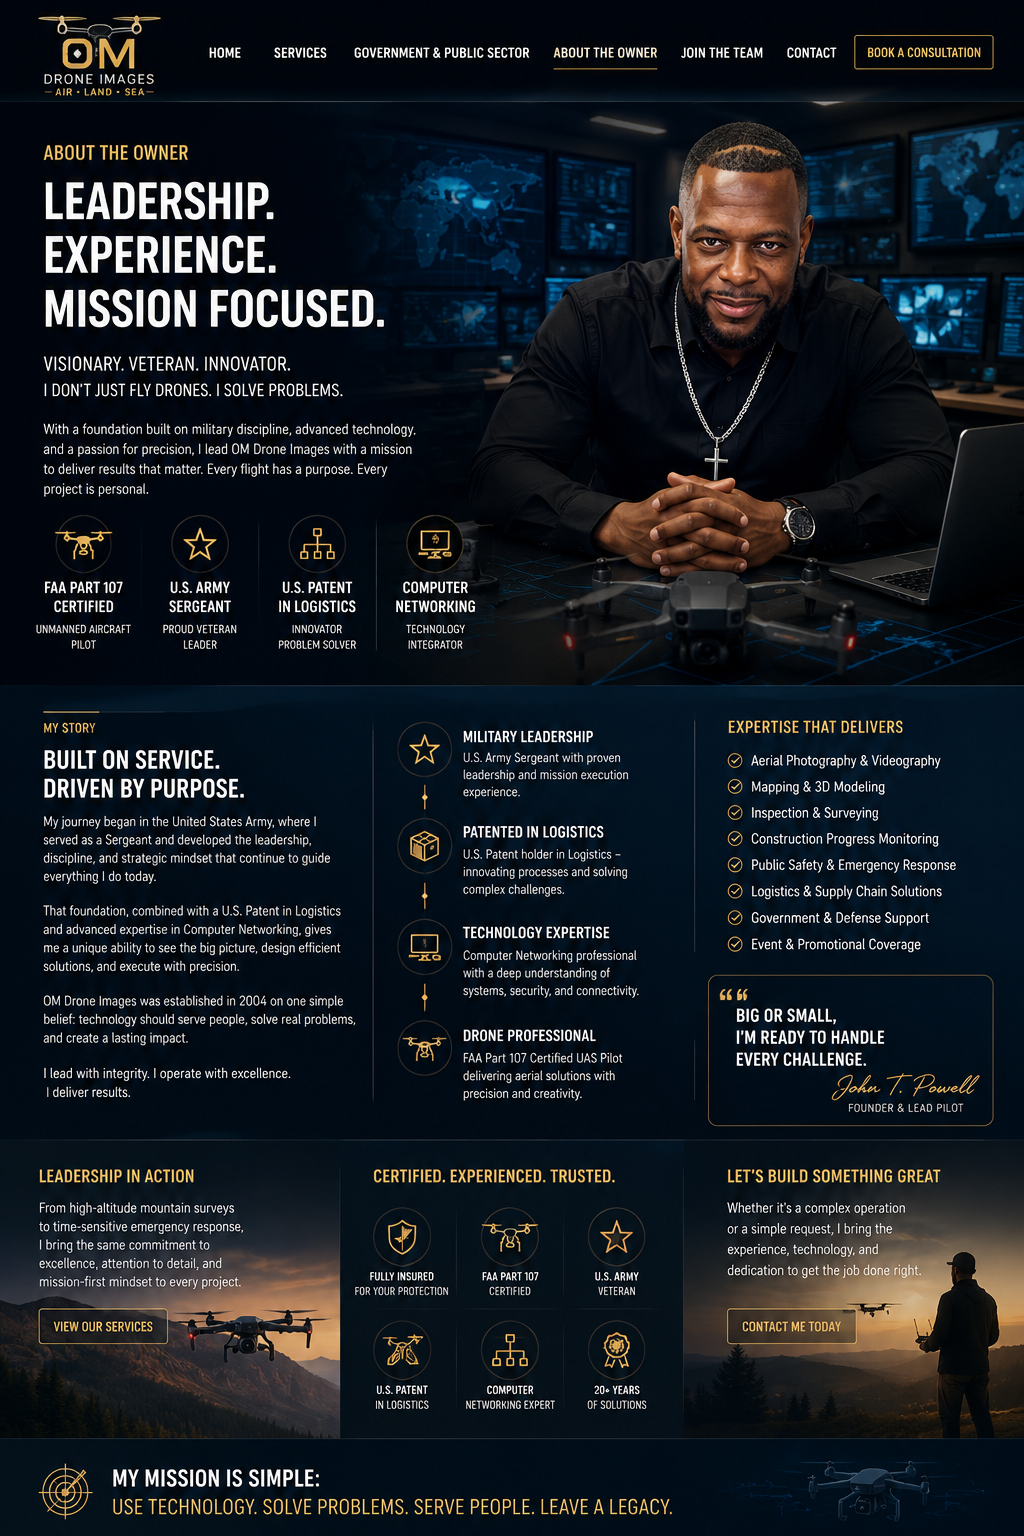
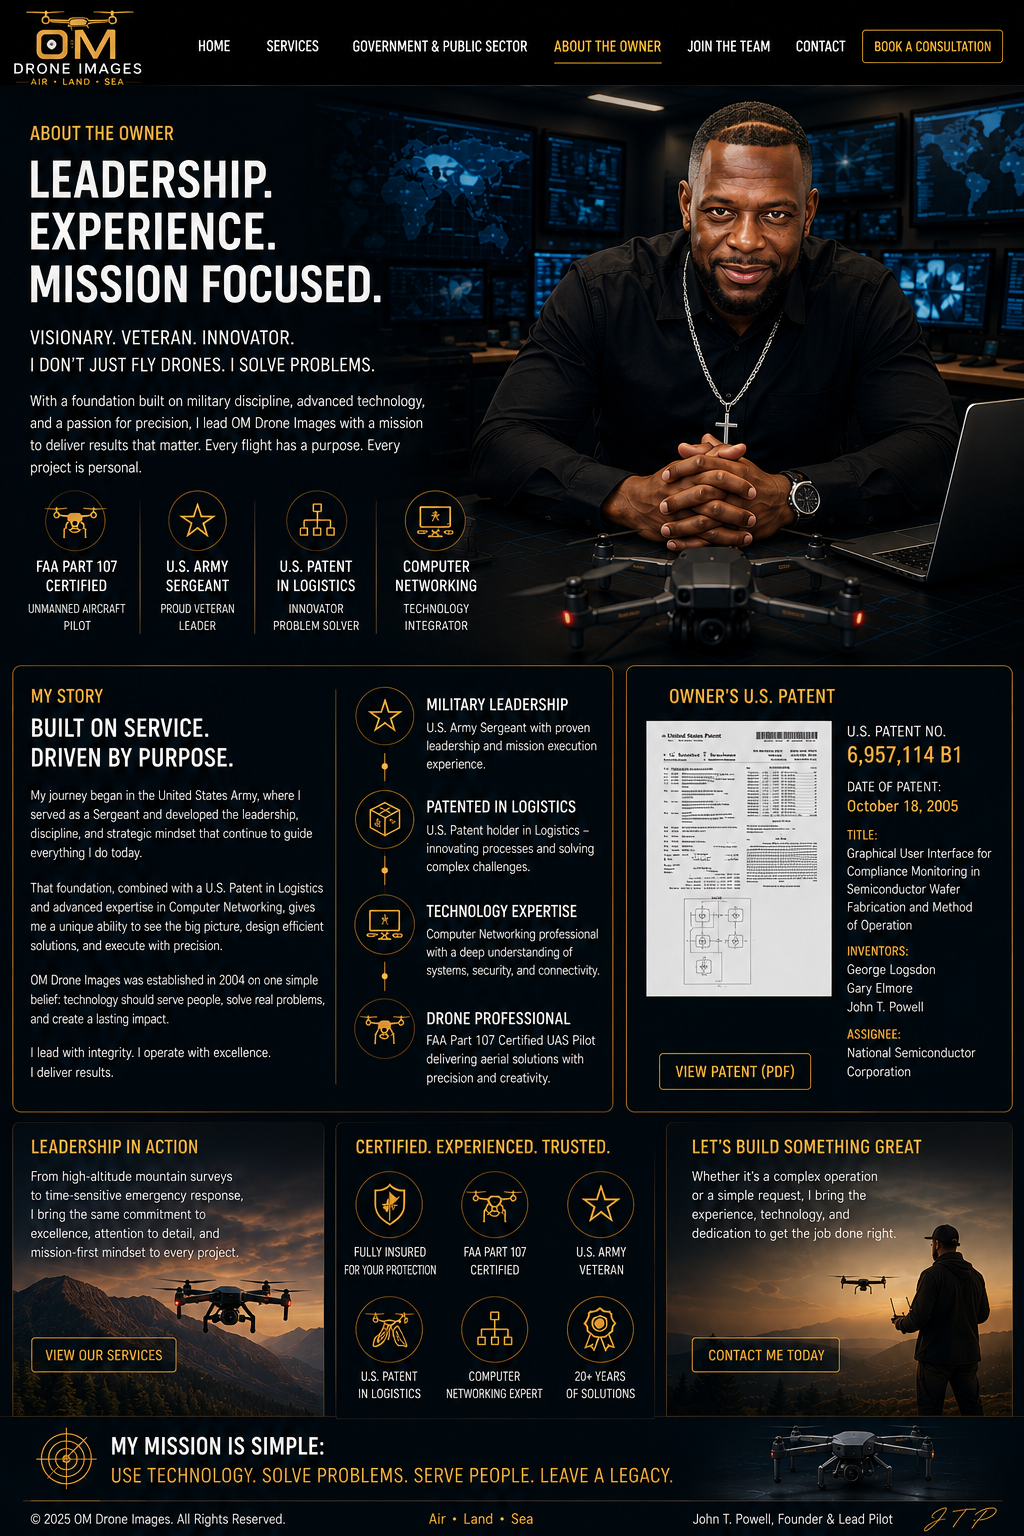
Add files via upload

diff --git a/index.html b/index.html
@@ -96,7 +96,7 @@ footer{border-top:1px solid var(--line);padding:35px 0 50px;color:#8f9bad}.foot{
       <div style="display:grid;gap:16px">
         <div class="card"><div class="num">LEADERSHIP</div><h3>U.S. Army Sergeant Veteran</h3><p>A background shaped by discipline, accountability, team leadership and mission execution. Those values still guide how OM Drone Images approaches every assignment.</p></div>
         <div class="card"><div class="num">AVIATION</div><h3>FAA Part 107 Certified</h3><p>Certified as a remote pilot for unmanned aircraft operations, with a focus on safe, responsible, professional flight planning and execution.</p></div>
-        <div class="card"><div class="num">INNOVATION</div><h3>U.S. Patent in Logistics</h3><p>Experience developing practical logistics solutions and thinking through complex operational challenges from systems, process and execution perspectives.</p></div>
+        <div class="card"><div class="num">INNOVATION</div><h3>U.S. Patent No. 6,957,114 B1</h3><p>Named inventor on “Graphical User Interface for Compliance Monitoring in Semiconductor Wafer Fabrication and Method of Operation,” patented October 18, 2005. The work reflects experience in complex resource allocation, monitoring, compliance visualization and systems thinking.</p></div>
         <div class="card"><div class="num">TECHNOLOGY</div><h3>Computer Networking Background</h3><p>Technology experience adds a systems-level view to imaging, connectivity, digital delivery and modern operational problem solving.</p></div>
       </div>
     </div>
